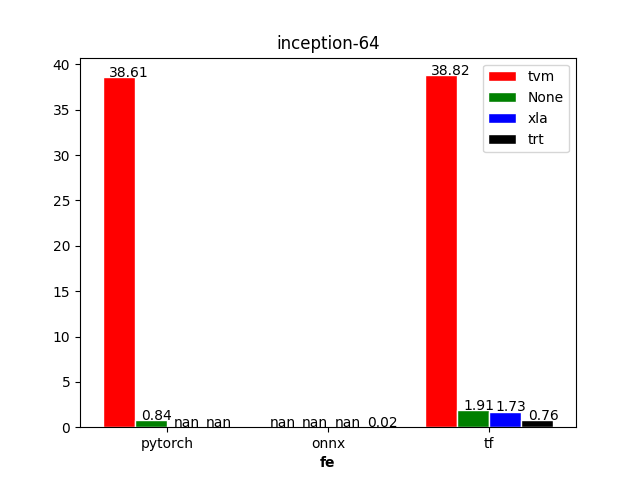
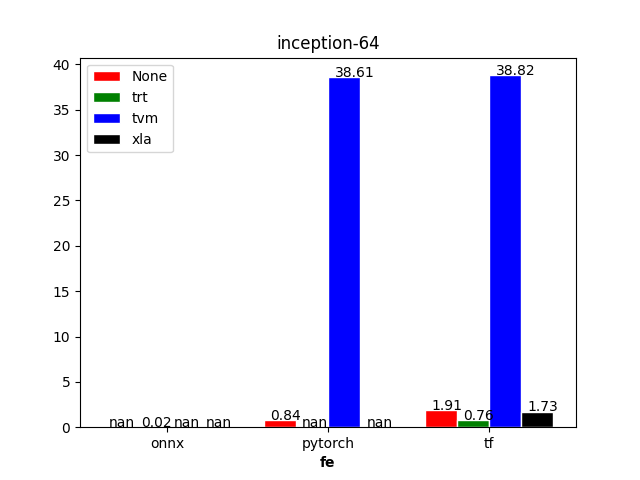
sort visualize label and group to keep same order

diff --git a/doc/visual.py b/doc/visual.py
@@ -12,8 +12,8 @@ def grouped_barplot(data, title, filename):
     for (label, group), _ in data.items():
         labels.add(label)
         groups.add(group)
-    groups = [g for g in groups]
-    labels = [l for l in labels]
+    groups = list(sorted([g for g in groups]))
+    labels = list(sorted([l for l in labels]))
     values = []
     for label in labels:
         vals = []

diff --git a/README.md b/README.md
@@ -70,7 +70,7 @@ bash jobs.sh <optimizer> <exp_id>
 ```
 
 ## Report
-See [report](doc/exp/report.md) for detailed benchmark result and environment.
+See [report](doc/exp/report.md) for detailed benchmark results and environment.
 
 ## Code Format
 yapf infer_perf/*.py -i --style yapf.style 
